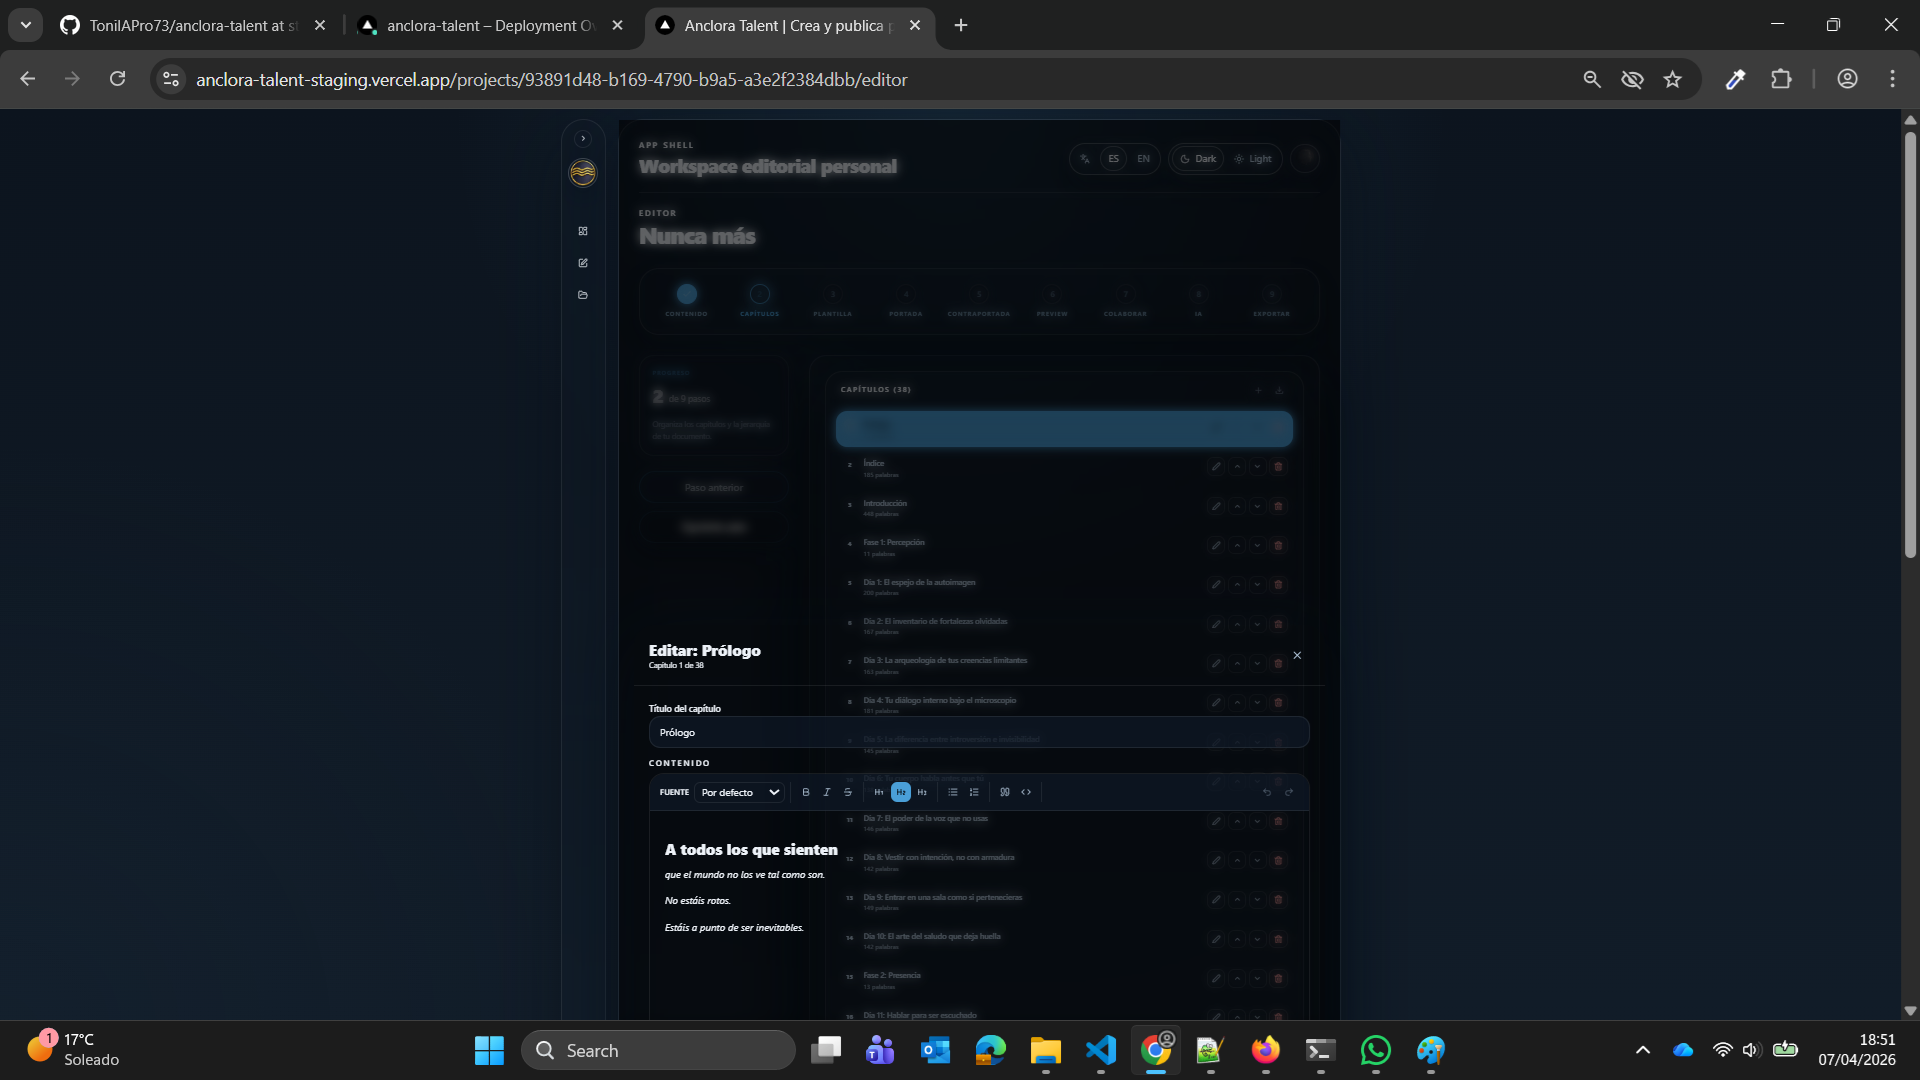
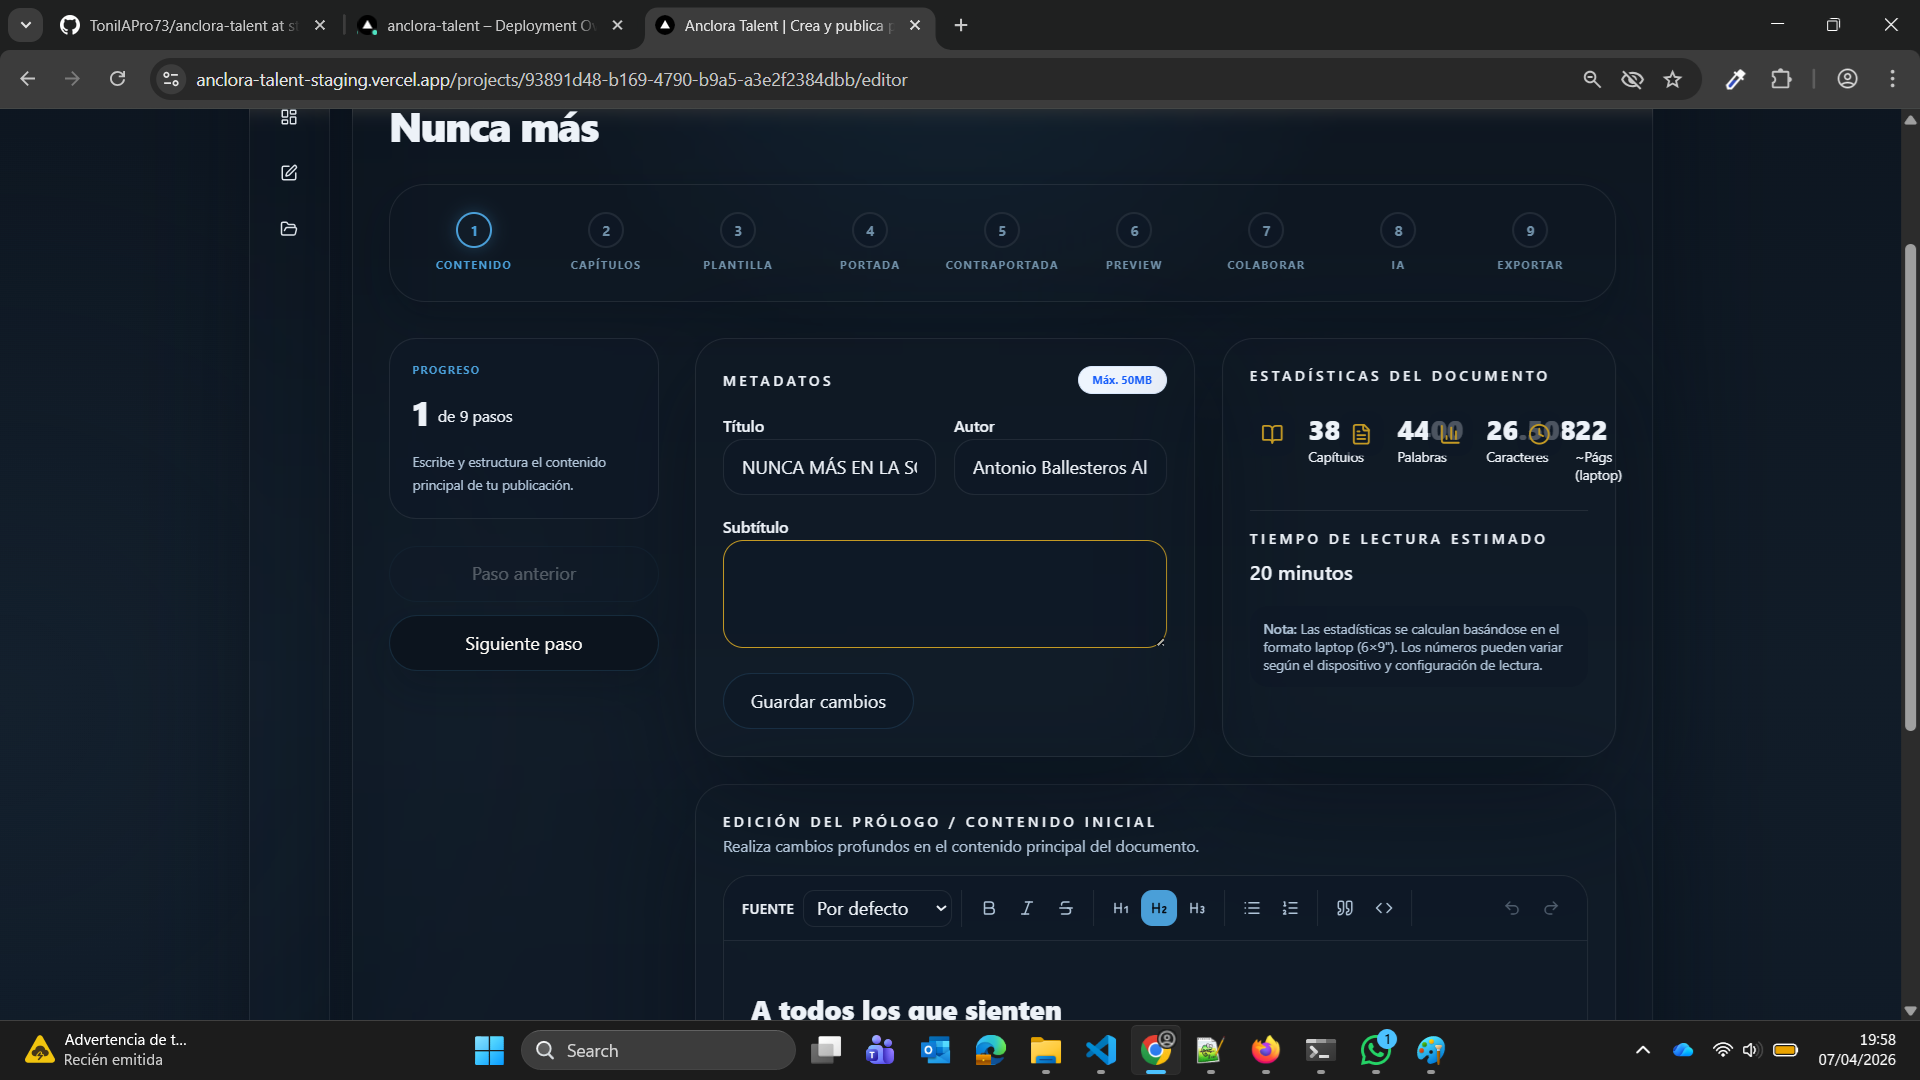
fix: redesign Step 1, remove prologue editor from Step 1, fix modal transparency and positioning using Portal

diff --git a/src/components/projects/ProjectWorkspace.tsx b/src/components/projects/ProjectWorkspace.tsx
@@ -17,6 +17,7 @@ import { AdvancedRichTextEditor } from './AdvancedRichTextEditor';
 import { ChapterEditorModal } from './ChapterEditorModal';
 import { AddChapterDialog } from './AddChapterDialog';
 import { ImportChapterDialog } from './ImportChapterDialog';
+import { Portal } from '@/components/ui/Portal';
 import { saveProjectDocumentAction, saveProjectCoverAction, saveChapterContentAction } from '@/lib/projects/actions';
 import { premiumPrimaryDarkButton, premiumSecondaryLightButton } from '@/components/ui/button-styles';
 import { SubmitButton } from '@/components/ui/SubmitButton';
@@ -60,7 +61,7 @@ export function ProjectWorkspace({
     project.document.chapters[0]?.id ?? '',
   );
   
-  // Modal states moved here for better positioning control
+  // Modal states
   const [editingChapterId, setEditingChapterId] = useState<string | null>(null);
   const [isAddDialogOpen, setIsAddDialogOpen] = useState(false);
   const [isImportDialogOpen, setIsImportDialogOpen] = useState(false);
@@ -109,21 +110,6 @@ export function ProjectWorkspace({
     });
   };
 
-  const handleChapterContentUpdate = useCallback((html: string) => {
-    const formData = new FormData();
-    formData.set('projectId', project.id);
-    formData.set('chapterId', activeChapter.id);
-    formData.set('chapterTitle', activeChapter.title);
-    formData.set('htmlContent', html);
-
-    setSaveState('saving');
-    startTransition(async () => {
-      await saveChapterContentAction(formData);
-      setSaveState('saved');
-      setTimeout(() => setSaveState('idle'), 2000);
-    });
-  }, [project.id, activeChapter.id, activeChapter.title]);
-
   const steps: Step[] = useMemo(() => [
     { id: 1, title: copy.stepContent, description: copy.stepContentDesc, status: activeStep === 1 ? 'active' : activeStep > 1 ? 'completed' : 'pending' },
     { id: 2, title: copy.stepChapters, description: copy.stepChaptersDesc, status: activeStep === 2 ? 'active' : activeStep > 2 ? 'completed' : 'pending' },
@@ -140,76 +126,62 @@ export function ProjectWorkspace({
     switch (activeStep) {
       case 1: // Content
         return (
-          <div className="space-y-6">
-            <div className="grid gap-6 lg:grid-cols-[1fr_350px]">
-              <section className="rounded-[28px] border border-[var(--border-subtle)] bg-[var(--page-surface)] p-6 shadow-[var(--shadow-strong)]">
-                <div className="mb-4 flex items-center justify-between">
-                  <p className="text-xs font-semibold uppercase tracking-[0.28em] text-[var(--text-tertiary)]">
-                    {copy.editorMetaEyebrow}
-                  </p>
-                  <span className="rounded-full bg-blue-50 px-3 py-1 text-[10px] font-bold text-blue-600 border border-blue-100">
-                    Máx. 50MB
-                  </span>
-                </div>
-                <form action={saveProjectDocumentAction} className="space-y-4" data-testid="project-metadata-form">
-                  <input type="hidden" name="projectId" value={project.id} />
-                  <input type="hidden" name="chapterId" value={activeChapter.id} />
-                  <input type="hidden" name="chapterTitle" value={activeChapter.title} />
-                  <div className="grid gap-4 md:grid-cols-2">
-                    <label className="block space-y-2">
-                      <span className="text-sm font-semibold text-[var(--text-primary)]">{copy.editorTitleLabel}</span>
-                      <input
-                        data-testid="project-document-title-input"
-                        name="title"
-                        defaultValue={project.document.title}
-                        className="w-full rounded-[18px] border border-[var(--border-subtle)] bg-[var(--surface-soft)] px-4 py-3 text-[var(--text-primary)] outline-none transition focus:border-[var(--accent-mint)]"
-                      />
-                    </label>
-                    <label className="block space-y-2">
-                      <span className="text-sm font-semibold text-[var(--text-primary)]">{copy.editorAuthorLabel}</span>
-                      <input
-                        data-testid="project-document-author-input"
-                        name="author"
-                        defaultValue={project.document.author}
-                        className="w-full rounded-[18px] border border-[var(--border-subtle)] bg-[var(--surface-soft)] px-4 py-3 text-[var(--text-primary)] outline-none transition focus:border-[var(--accent-mint)]"
-                      />
-                    </label>
-                  </div>
+          <div className="flex flex-col gap-6">
+            {/* Metadata Card - Full Width */}
+            <section className="rounded-[28px] border border-[var(--border-subtle)] bg-[var(--page-surface)] p-8 shadow-[var(--shadow-strong)]">
+              <div className="mb-6 flex items-center justify-between">
+                <p className="text-xs font-semibold uppercase tracking-[0.28em] text-[var(--text-tertiary)]">
+                  {copy.editorMetaEyebrow}
+                </p>
+                <span className="rounded-full bg-blue-50 px-3 py-1 text-[10px] font-bold text-blue-600 border border-blue-100">
+                  Máx. 50MB
+                </span>
+              </div>
+              <form action={saveProjectDocumentAction} className="space-y-6" data-testid="project-metadata-form">
+                <input type="hidden" name="projectId" value={project.id} />
+                <input type="hidden" name="chapterId" value={activeChapter.id} />
+                <input type="hidden" name="chapterTitle" value={activeChapter.title} />
+                <div className="grid gap-6 md:grid-cols-2">
                   <label className="block space-y-2">
-                    <span className="text-sm font-semibold text-[var(--text-primary)]">{copy.editorSubtitleLabel}</span>
-                    <textarea
-                      data-testid="project-document-subtitle-input"
-                      name="subtitle"
-                      defaultValue={project.document.subtitle}
-                      className="min-h-24 w-full rounded-[18px] border border-[var(--border-subtle)] bg-[var(--surface-soft)] px-4 py-3 text-[var(--text-primary)] outline-none transition focus:border-[var(--accent-mint)]"
+                    <span className="text-sm font-semibold text-[var(--text-primary)]">{copy.editorTitleLabel}</span>
+                    <input
+                      data-testid="project-document-title-input"
+                      name="title"
+                      defaultValue={project.document.title}
+                      className="w-full rounded-[18px] border border-[var(--border-subtle)] bg-[var(--surface-soft)] px-4 py-3 text-[var(--text-primary)] outline-none transition focus:border-[var(--accent-mint)]"
                     />
                   </label>
-                  <SubmitButton className={`${premiumSecondaryLightButton} px-5`} data-testid="project-document-save-button">
+                  <label className="block space-y-2">
+                    <span className="text-sm font-semibold text-[var(--text-primary)]">{copy.editorAuthorLabel}</span>
+                    <input
+                      data-testid="project-document-author-input"
+                      name="author"
+                      defaultValue={project.document.author}
+                      className="w-full rounded-[18px] border border-[var(--border-subtle)] bg-[var(--surface-soft)] px-4 py-3 text-[var(--text-primary)] outline-none transition focus:border-[var(--accent-mint)]"
+                    />
+                  </label>
+                </div>
+                <label className="block space-y-2">
+                  <span className="text-sm font-semibold text-[var(--text-primary)]">{copy.editorSubtitleLabel}</span>
+                  <textarea
+                    data-testid="project-document-subtitle-input"
+                    name="subtitle"
+                    defaultValue={project.document.subtitle}
+                    className="min-h-32 w-full rounded-[18px] border border-[var(--border-subtle)] bg-[var(--surface-soft)] px-4 py-3 text-[var(--text-primary)] outline-none transition focus:border-[var(--accent-mint)]"
+                  />
+                </label>
+                <div className="flex justify-end">
+                  <SubmitButton className={`${premiumSecondaryLightButton} px-8 py-3`} data-testid="project-document-save-button">
                     {copy.saveChanges}
                   </SubmitButton>
-                </form>
-              </section>
+                </div>
+              </form>
+            </section>
 
+            {/* Stats Card - Full Width, Stacked below Metadata */}
+            <div className="w-full">
               <DocumentStatsCard document={project.document} isLoading={isPending} />
             </div>
-
-            <section className="rounded-[28px] border border-[var(--border-subtle)] bg-[var(--page-surface)] p-6 shadow-[var(--shadow-strong)]">
-               <div className="mb-4">
-                  <p className="text-xs font-semibold uppercase tracking-[0.28em] text-[var(--text-tertiary)]">
-                    Edición del Prólogo / Contenido Inicial
-                  </p>
-                  <p className="mt-1 text-sm text-[var(--text-secondary)]">
-                    Realiza cambios profundos en el contenido principal del documento.
-                  </p>
-               </div>
-               <div className="min-h-[500px]">
-                  <AdvancedRichTextEditor
-                    key={activeChapter.id}
-                    defaultContent={blocksToHtml(activeChapter.blocks)}
-                    onUpdate={handleChapterContentUpdate}
-                  />
-               </div>
-            </section>
           </div>
         );
       case 2: // Chapters
@@ -377,31 +349,33 @@ export function ProjectWorkspace({
         </main>
       </div>
 
-      {/* Modals moved to root level for better positioning and z-index behavior */}
-      {editingChapter && editingChapterIndex >= 0 && (
-        <ChapterEditorModal
-          chapter={editingChapter}
-          chapterIndex={editingChapterIndex}
-          totalChapters={project.document.chapters.length}
-          isOpen={editingChapterId !== null}
+      {/* Modals rendered via Portal to escape any transform/backdrop-filter trapping */}
+      <Portal>
+        {editingChapter && editingChapterIndex >= 0 && (
+          <ChapterEditorModal
+            chapter={editingChapter}
+            chapterIndex={editingChapterIndex}
+            totalChapters={project.document.chapters.length}
+            isOpen={editingChapterId !== null}
+            projectId={project.id}
+            onClose={() => setEditingChapterId(null)}
+          />
+        )}
+
+        <AddChapterDialog
+          isOpen={isAddDialogOpen}
           projectId={project.id}
-          onClose={() => setEditingChapterId(null)}
+          chapters={project.document.chapters}
+          onClose={() => setIsAddDialogOpen(false)}
         />
-      )}
 
-      <AddChapterDialog
-        isOpen={isAddDialogOpen}
-        projectId={project.id}
-        chapters={project.document.chapters}
-        onClose={() => setIsAddDialogOpen(false)}
-      />
-
-      <ImportChapterDialog
-        isOpen={isImportDialogOpen}
-        projectId={project.id}
-        chapters={project.document.chapters}
-        onClose={() => setIsImportDialogOpen(false)}
-      />
+        <ImportChapterDialog
+          isOpen={isImportDialogOpen}
+          projectId={project.id}
+          chapters={project.document.chapters}
+          onClose={() => setIsImportDialogOpen(false)}
+        />
+      </Portal>
     </div>
   );
 }

diff --git a/src/components/layout/AppShell.tsx b/src/components/layout/AppShell.tsx
@@ -52,7 +52,7 @@ export function AppShell({ children }: { children: React.ReactNode }) {
         className="mx-auto grid min-h-screen max-w-7xl gap-5 px-4 py-4 transition-[grid-template-columns] duration-300"
         style={{ gridTemplateColumns: sidebarCols }}
       >
-        <aside className="flex flex-col overflow-hidden rounded-[36px] border border-[var(--border-subtle)] bg-[var(--shell-surface)] shadow-[var(--shadow-strong)] backdrop-blur">
+        <aside className="flex flex-col overflow-hidden rounded-[36px] border border-[var(--border-subtle)] bg-[var(--shell-surface)] shadow-[var(--shadow-strong)]">
           <div className={`flex ${collapsed ? 'justify-center px-3 py-4' : 'justify-end px-6 pt-4'}`}>
             <button
               onClick={toggle}
@@ -111,7 +111,7 @@ export function AppShell({ children }: { children: React.ReactNode }) {
           )}
         </aside>
 
-        <div className="rounded-[40px] border border-[var(--border-subtle)] bg-[var(--shell-main-surface)] p-6 shadow-[var(--shadow-strong)] backdrop-blur xl:p-8">
+        <div className="rounded-[40px] border border-[var(--border-subtle)] bg-[var(--shell-main-surface)] p-6 shadow-[var(--shadow-strong)] xl:p-8">
           <header className="flex flex-col gap-4 border-b border-[var(--border-subtle)] pb-6 md:flex-row md:items-center md:justify-between">
             <div>
               <p className="text-xs font-semibold uppercase tracking-[0.28em] text-[var(--text-tertiary)]">{messages.topbarEyebrow}</p>

diff --git a/src/components/projects/ChapterEditorModal.tsx b/src/components/projects/ChapterEditorModal.tsx
@@ -116,7 +116,7 @@ export function ChapterEditorModal({
   return (
     <div className="fixed inset-0 z-[100] flex items-center justify-center bg-black/60 backdrop-blur-sm p-4 sm:p-6" onClick={handleClose}>
       <div
-        className="flex h-full max-h-[95vh] w-full max-w-[95vw] flex-col overflow-hidden rounded-[24px] bg-[var(--page-surface)] shadow-[var(--shadow-strong)] sm:rounded-[32px] md:max-h-[90vh] md:max-w-[90vw]"
+        className="flex h-full max-h-[95vh] w-full max-w-[95vw] flex-col overflow-hidden rounded-[24px] bg-[#111C28] shadow-[var(--shadow-strong)] sm:rounded-[32px] md:max-h-[90vh] md:max-w-[90vw]"
         onClick={(e) => e.stopPropagation()}
       >
         {/* Header */}

diff --git a/src/components/projects/DocumentStatsCard.tsx b/src/components/projects/DocumentStatsCard.tsx
@@ -31,7 +31,7 @@ export function DocumentStatsCard({ document, isLoading = false }: DocumentStats
   }
 
   return (
-    <section className="rounded-[28px] border border-[var(--border-subtle)] bg-[var(--page-surface)] p-6 shadow-[var(--shadow-strong)]">
+    <section className="h-full rounded-[28px] border border-[var(--border-subtle)] bg-[var(--page-surface)] p-6 shadow-[var(--shadow-strong)]">
       <p className="text-xs font-semibold uppercase tracking-[0.28em] text-[var(--text-tertiary)]">
         Estadísticas del documento
       </p>

diff --git a/src/components/projects/ImportChapterDialog.tsx b/src/components/projects/ImportChapterDialog.tsx
@@ -153,7 +153,7 @@ export function ImportChapterDialog({ isOpen, projectId, chapters, onClose, onCh
     >
       <div
         ref={dialogRef}
-        className="w-full max-w-md rounded-[28px] border border-[var(--border-subtle)] bg-[var(--page-surface)] p-6 shadow-[var(--shadow-strong)]"
+        className="w-full max-w-md rounded-[28px] border border-[var(--border-subtle)] bg-[#111C28] p-6 shadow-[var(--shadow-strong)]"
         onClick={(e) => e.stopPropagation()}
       >
         {/* Header */}

diff --git a/src/components/projects/AddChapterDialog.tsx b/src/components/projects/AddChapterDialog.tsx
@@ -68,7 +68,7 @@ export function AddChapterDialog({ isOpen, projectId, chapters, onClose, onChapt
     >
       <div
         ref={dialogRef}
-        className="w-full max-w-md rounded-[28px] border border-[var(--border-subtle)] bg-[var(--page-surface)] p-6 shadow-[var(--shadow-strong)]"
+        className="w-full max-w-md rounded-[28px] border border-[var(--border-subtle)] bg-[#111C28] p-6 shadow-[var(--shadow-strong)]"
         onClick={(e) => e.stopPropagation()}
       >
         {/* Header */}

diff --git a/src/components/ui/Portal.tsx b/src/components/ui/Portal.tsx
@@ -1,0 +1,16 @@
+'use client';
+
+import { useEffect, useState } from 'react';
+import { createPortal } from 'react-dom';
+
+export function Portal({ children }: { children: React.ReactNode }) {
+  const [mounted, setMounted] = useState(false);
+
+  useEffect(() => {
+    setMounted(true);
+  }, []);
+
+  if (!mounted) return null;
+
+  return createPortal(children, document.body);
+}
